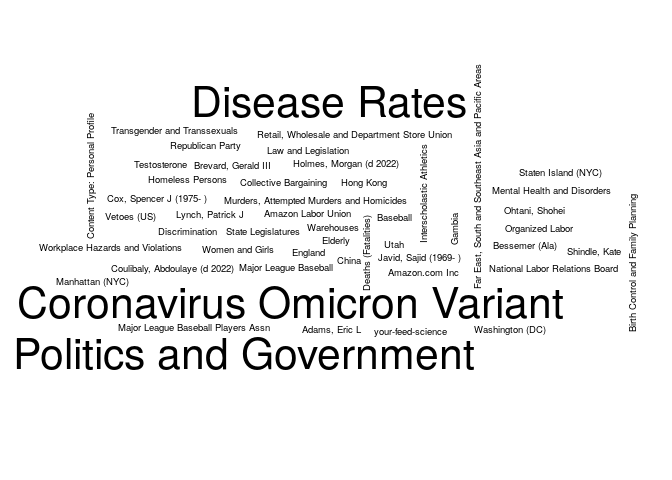
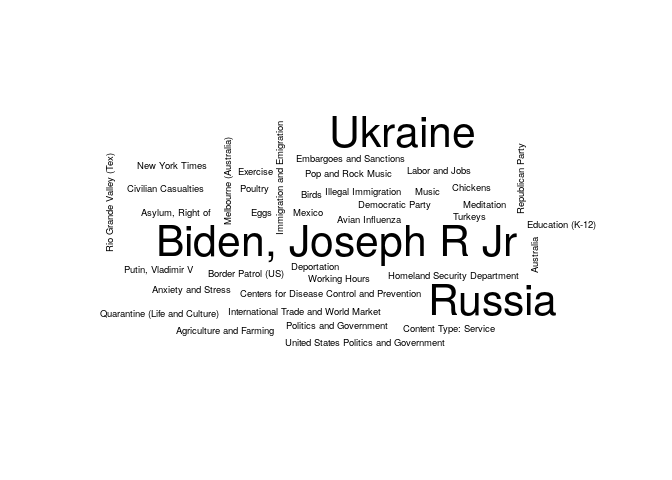
Updating the NYT report

Changed region(s): [[0.0, 0.125, 0.9688, 0.7812]]

diff --git a/03-nytimes/README.md b/03-nytimes/README.md
@@ -5,7 +5,7 @@ The following is an example of how to use the [NYTimes
 API](https://developer.nytimes.com/) to get a list of articles related
 to a particular term. Here we are searching articles that include the
 term `"health"`, and that were published up to seven days ago since
-2022-03-28.
+2022-04-04.
 
 ``` r
 # Preparing a function to use the GET method with the NYTimes API
@@ -83,25 +83,25 @@ colnames(tab) <- c("Keyword", "# Articles")
 knitr::kable(tab, row.names = FALSE)
 ```
 
-| Keyword                           | \# Articles |
-|:----------------------------------|------------:|
-| Coronavirus (2019-nCoV)           |          30 |
-| Vaccination and Immunization      |          30 |
-| Coronavirus Omicron Variant       |          20 |
-| Disease Rates                     |          20 |
-| Politics and Government           |          20 |
-| Adams, Eric L                     |          10 |
-| Amazon Labor Union                |          10 |
-| Amazon.com Inc                    |          10 |
-| Baseball                          |          10 |
-| Bessemer (Ala)                    |          10 |
-| Birth Control and Family Planning |          10 |
-| Brevard, Gerald III               |          10 |
-| China                             |          10 |
-| Collective Bargaining             |          10 |
-| Content Type: Personal Profile    |          10 |
-| Coulibaly, Abdoulaye (d 2022)     |          10 |
-| Cox, Spencer J (1975- )           |          10 |
-| Deaths (Fatalities)               |          10 |
-| Discrimination                    |          10 |
-| Elderly                           |          10 |
+| Keyword                                    | \# Articles |
+|:-------------------------------------------|------------:|
+| Coronavirus (2019-nCoV)                    |          30 |
+| Biden, Joseph R Jr                         |          20 |
+| Russia                                     |          20 |
+| Russian Invasion of Ukraine (2022)         |          20 |
+| Ukraine                                    |          20 |
+| Agriculture and Farming                    |          10 |
+| Anxiety and Stress                         |          10 |
+| Asylum, Right of                           |          10 |
+| Australia                                  |          10 |
+| Avian Influenza                            |          10 |
+| Birds                                      |          10 |
+| Border Patrol (US)                         |          10 |
+| Centers for Disease Control and Prevention |          10 |
+| Chickens                                   |          10 |
+| Civilian Casualties                        |          10 |
+| Content Type: Service                      |          10 |
+| Democratic Party                           |          10 |
+| Deportation                                |          10 |
+| Education (K-12)                           |          10 |
+| Eggs                                       |          10 |
